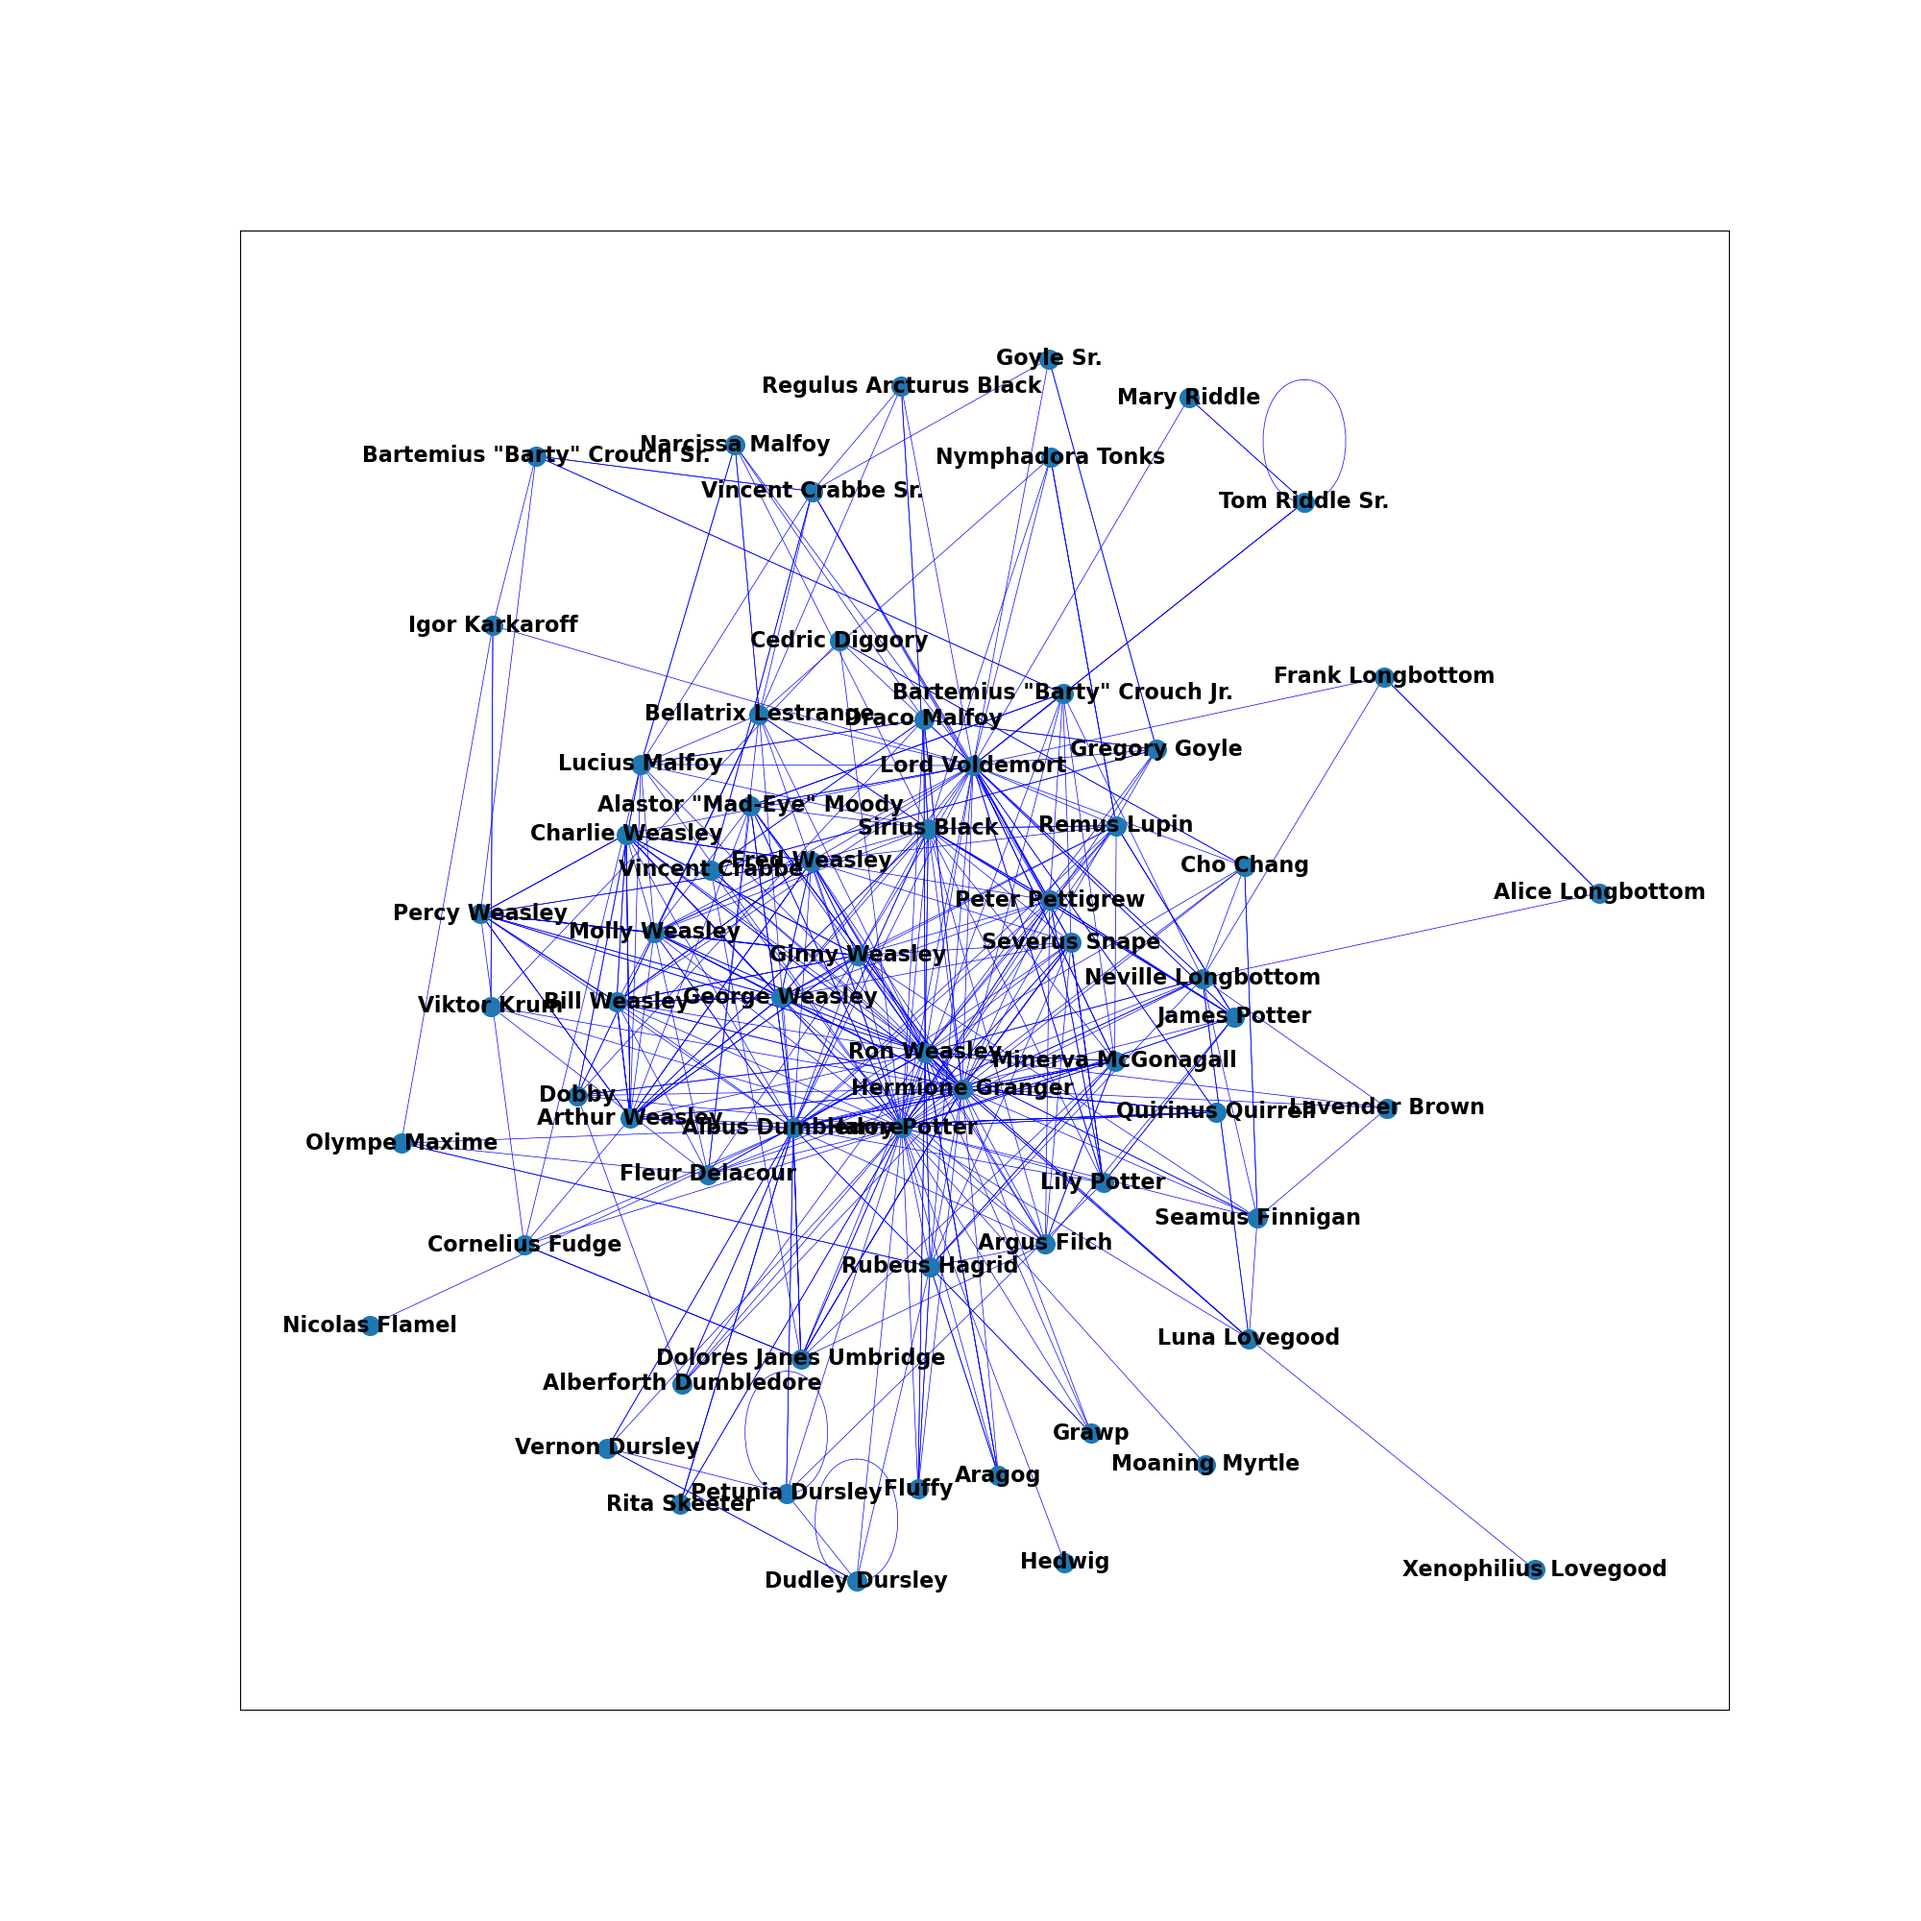
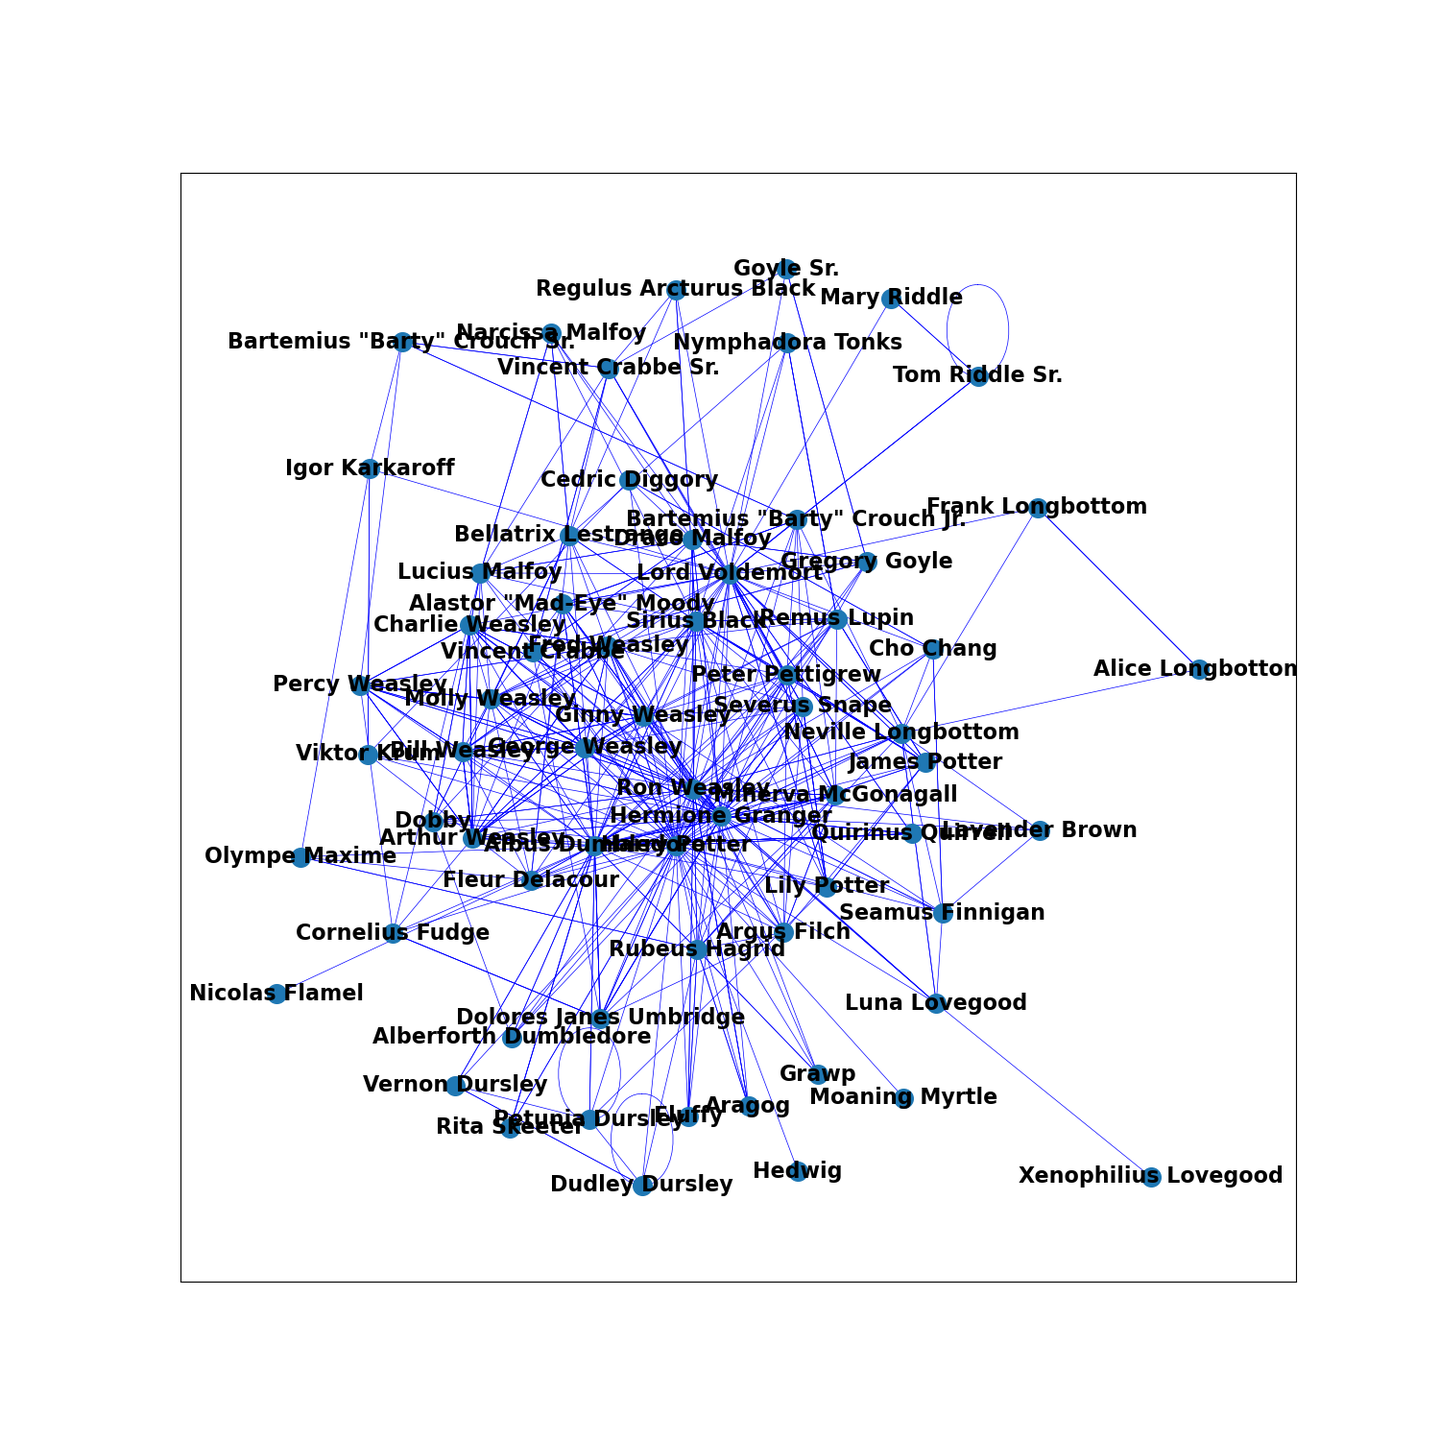
layouts

diff --git a/NetworkX.py b/NetworkX.py
@@ -5,6 +5,15 @@ import matplotlib.pyplot as plt
 import matplotlib.colors as mcolors
 import seaborn as sns
 
+def draw_network(pos, type):
+    plt.figure(3, figsize=(15, 15))
+    nx.draw_networkx_nodes(graph, pos, node_size=200)
+    nx.draw_networkx_edges(graph, pos, edgelist=edges_list, edge_color='b', width=0.5)
+    nx.draw_networkx_labels(graph, pos, labels=mapping, font_size=16,
+                            font_family='sans-serif', font_weight='bold')
+    plt.savefig("grafici/network_" + type)
+    plt.show()
+
 def plot_centrality_by_key(centrality_type, graph):
     centrality = nx.betweenness_centrality(graph)
     if (centrality_type == "Closeness"):
@@ -63,16 +72,21 @@ for i in range(0, len(source_list)):
 
 graph = nx.Graph()
 graph.add_edges_from(edges_list)
-pos = nx.spring_layout(graph)
+#pos = nx.spring_layout(graph)
 
-plt.figure(3, figsize=(20, 20))
+draw_network(nx.spring_layout(graph), "spring")
+draw_network(nx.kamada_kawai_layout(graph), "kamada")
+draw_network(nx.random_layout(graph), "random")
+draw_network(nx.shell_layout(graph), "shell")
+draw_network(nx.spiral_layout(graph), "spiral")
+
+'''plt.figure(3, figsize=(20, 20))
 nx.draw_networkx_nodes(graph, nx.kamada_kawai_layout(graph), node_size=200)
 nx.draw_networkx_edges(graph, nx.kamada_kawai_layout(graph), edgelist=edges_list, edge_color='b', width=0.5)
 nx.draw_networkx_labels(graph, nx.kamada_kawai_layout(graph), labels=mapping, font_size=16,
                         font_family='sans-serif', font_weight='bold')
 plt.savefig('grafici/network_kamada')
-plt.show()
-
+plt.show()'''
 
 '''
 #closeness centrality
@@ -110,7 +124,7 @@ plt.figure(figsize=(18, 8))
 sns.histplot(list(clos.values()), kde=True)
 plt.show()'''
 
-plot_centrality_by_key("Betweeness", graph)
+'''plot_centrality_by_key("Betweeness", graph)
 plot_centrality_by_key("Closeness", graph)
 plot_centrality_by_key("Degree", graph)
 plot_centrality_by_key("Eigenvector", graph)
@@ -118,4 +132,7 @@ plot_centrality_by_key("Eigenvector", graph)
 plot_centrality_distribution("Betweeness", graph)
 plot_centrality_distribution("Closeness", graph)
 plot_centrality_distribution("Degree", graph)
-plot_centrality_distribution("Eigenvector", graph)
+plot_centrality_distribution("Eigenvector", graph)'''
+
+
+
